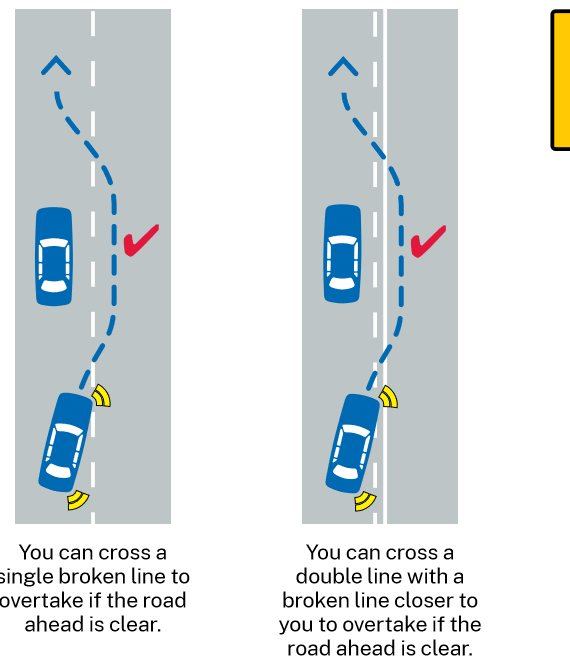
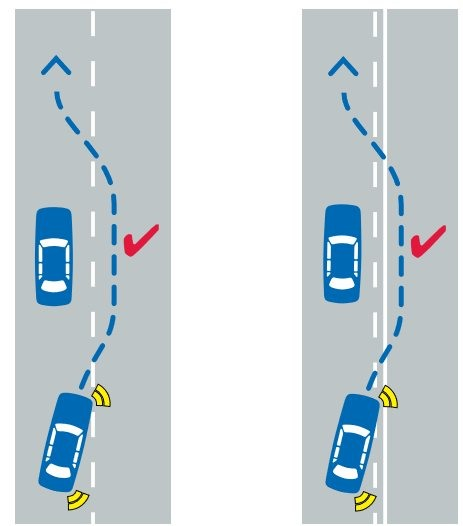
Add explicit grid column spans for several handbook figures
Add a "span" figure flag (exact grid-column-end count, e.g. 3 in a
3-col grid) alongside the existing "wide" (span 2) flag, since some
figures need a specific span that differs from the auto-detected one.

- Narrow bridges: give-way diagram now spans all 3 columns
- Overtaking: continuous/broken-line diagrams, the turning-vehicle
  sign and the overtake-a-bicycle diagram now span 2 columns;
  the no-overtake-left diagram now spans 3
- Re-crop overtake-broken-lines.jpg: remove baked-in captions and a
  stray sign fragment bleeding in on the right

diff --git a/data/handbook.js b/data/handbook.js
@@ -1264,7 +1264,7 @@ window.HANDBOOK = [
         "title": "Narrow bridges and roads",
         "page": 122,
         "figures": [
-          { "src": "images-handbook/narrow-bridge-giveway.jpg", "caption": "Car B must give way to Car A on a bridge.", "wide": true, "newRow": true },
+          { "src": "images-handbook/narrow-bridge-giveway.jpg", "caption": "Car B must give way to Car A on a bridge.", "span": 3, "newRow": true },
           { "src": "images-handbook/narrow-bridge-sign.jpg", "caption": "Narrow bridge.", "newRow": true },
           { "src": "images-handbook/narrow-bridge-ahead-sign.jpg", "caption": "Narrow bridge ahead." },
           { "src": "images-handbook/road-narrows-ahead-sign.jpg", "caption": "Road narrows ahead." }
@@ -1314,17 +1314,17 @@ window.HANDBOOK = [
         "title": "Overtaking",
         "page": 124,
         "figures": [
-          { "src": "images-handbook/overtaking-continuous-lines.png", "caption": "You must not cross a single continuous line, or double continuous lines, to overtake." },
-          { "src": "images-handbook/overtake-broken-lines.jpg", "caption": "You can cross a single broken line, or a double line with the broken line closer to you, to overtake if the road ahead is clear." },
+          { "src": "images-handbook/overtaking-continuous-lines.png", "caption": "You must not cross a single continuous line, or double continuous lines, to overtake.", "wide": true },
+          { "src": "images-handbook/overtake-broken-lines.jpg", "caption": "You can cross a single broken line, or a double line with the broken line closer to you, to overtake if the road ahead is clear.", "wide": true },
           { "src": "images-handbook/no-lines-overtake-sign.jpg", "caption": "'No lines — do not overtake unless safe' sign, shown where no lines are marked on the road." },
           { "src": "images-handbook/keep-left-unless-overtaking-sign.jpg", "caption": "'Keep left unless overtaking' sign." },
           { "src": "images-handbook/long-vehicle-sign.jpg", "caption": "'Long vehicle' sign: the vehicle is longer than normal." },
           { "src": "images-handbook/oversize-vehicle-sign.jpg", "caption": "'Oversize' sign: the vehicle is wider, longer or higher than normal." },
-          { "src": "images-handbook/do-not-overtake-turning-vehicle-sign.jpg", "caption": "'Do not overtake turning vehicle' sign, used on long vehicles that may need more than one lane to turn." },
-          { "src": "images-handbook/long-vehicle-no-overtake-left.jpg", "caption": "Do not overtake to the left of a long vehicle which is turning left." },
+          { "src": "images-handbook/do-not-overtake-turning-vehicle-sign.jpg", "caption": "'Do not overtake turning vehicle' sign, used on long vehicles that may need more than one lane to turn.", "wide": true },
+          { "src": "images-handbook/long-vehicle-no-overtake-left.jpg", "caption": "Do not overtake to the left of a long vehicle which is turning left.", "span": 3 },
           { "src": "images-handbook/long-vehicle-overtake-left-multilane.jpg", "caption": "You can overtake a long vehicle on the left when it's safe and you're on a multi-lane road." },
           { "src": "images-handbook/overtake-motorcycle.jpg", "caption": "Give motorcycles plenty of room when overtaking." },
-          { "src": "images-handbook/overtake-bicycle.jpg", "caption": "You can cross double dividing lines when overtaking a bicycle." },
+          { "src": "images-handbook/overtake-bicycle.jpg", "caption": "You can cross double dividing lines when overtaking a bicycle.", "wide": true },
           { "src": "images-handbook/no-overtaking-passing-sign.jpg", "caption": "'No overtaking or passing' sign, used on bridges." }
         ],
         "bullets": [],

diff --git a/js/app.js b/js/app.js
@@ -443,6 +443,9 @@
       if (fig.square) figure.classList.add('hbfigure--square');
       if (fig.scale) figure.style.setProperty('--hb-fig-scale', fig.scale);
       if (fig.newRow) figure.style.gridColumnStart = '1';
+      // "span" sets an exact column count (e.g. 3 in a 3-col grid), overriding
+      // the "wide" span-2 class below via inline style's higher specificity.
+      if (fig.span) figure.style.gridColumnEnd = 'span ' + fig.span;
       var img = document.createElement('img');
       img.src = fig.src;
       img.alt = fig.caption || section.title;
